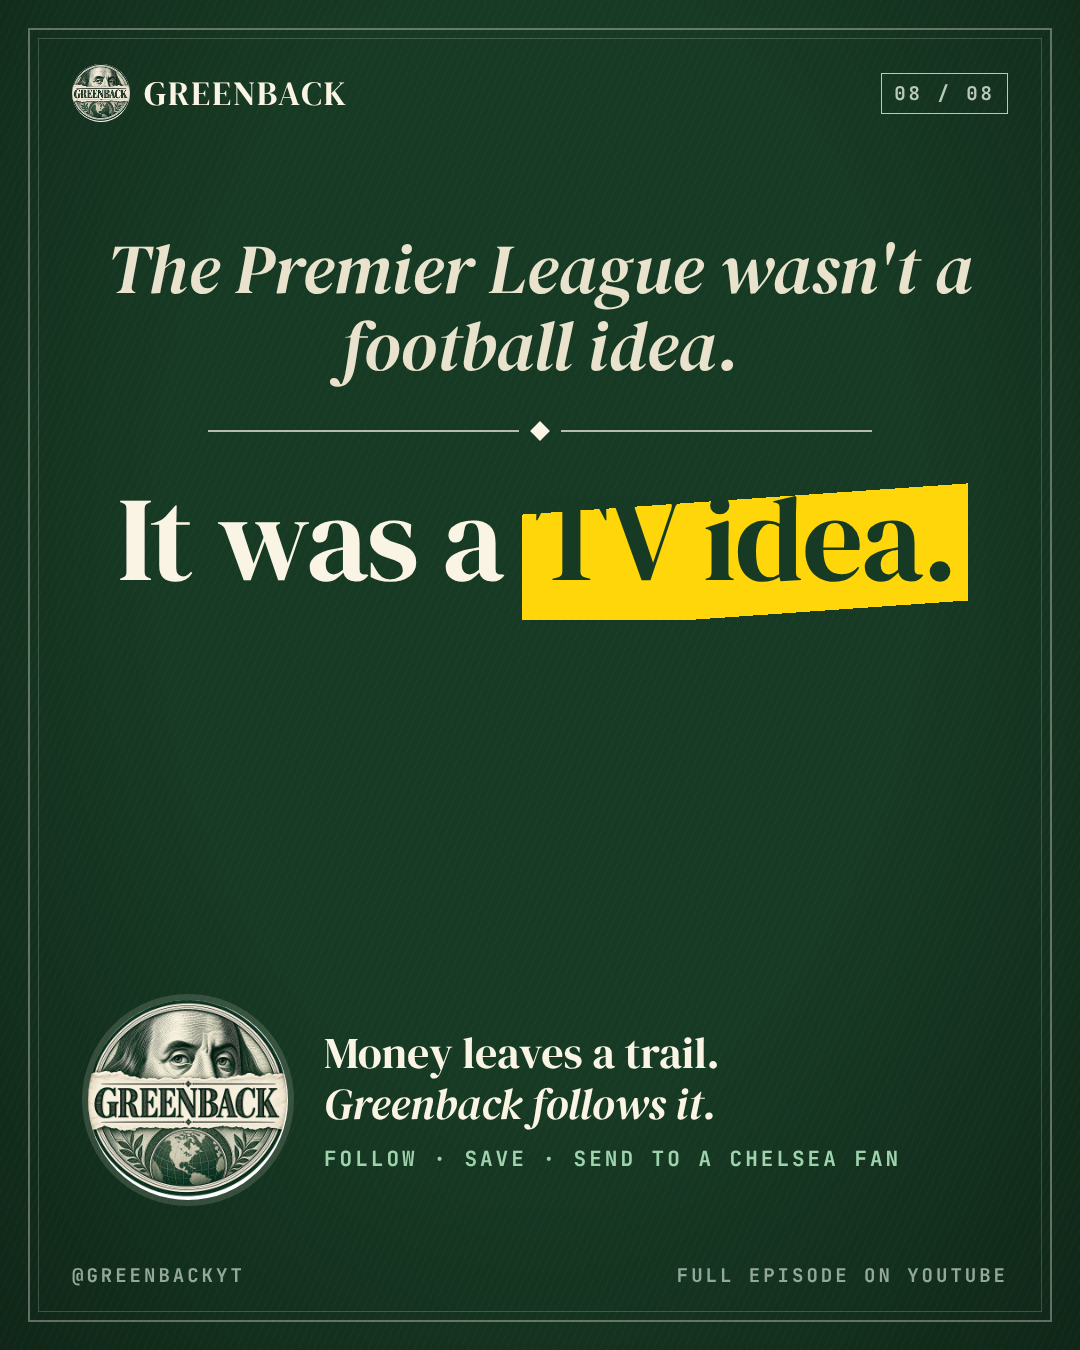
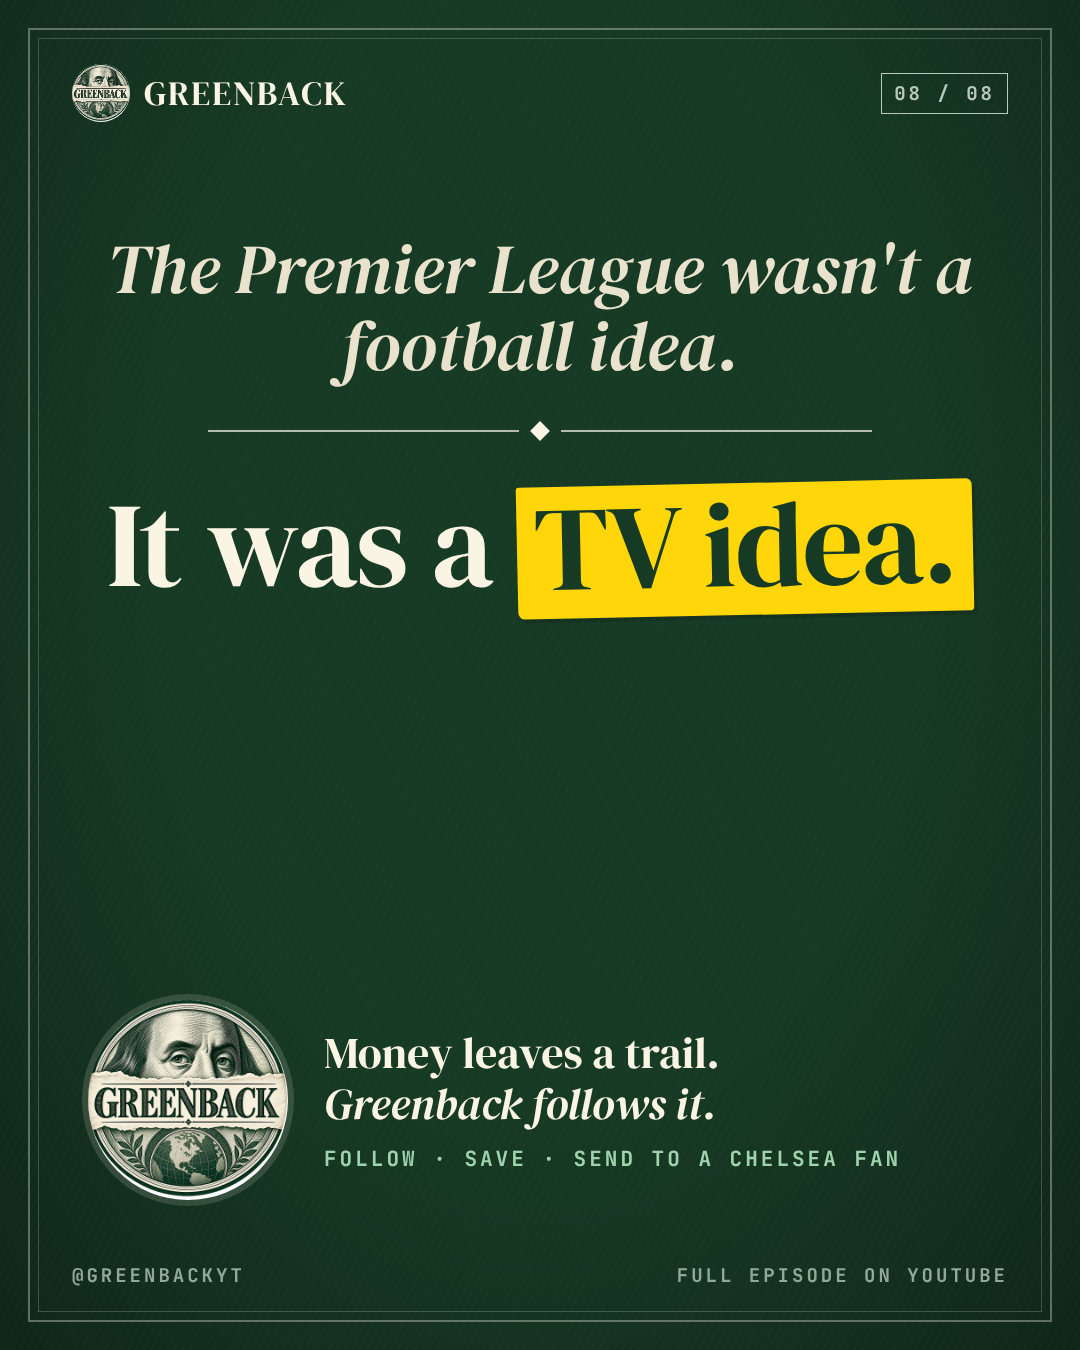
Greenback carousel 01: highlight as marker blocks, darker orange, slide 2 fit
Claude-Session: https://claude.ai/code/session_013DisWTCKT6cGxKX9bxVydS

Changed region(s): [[0.0917, 0.3422, 0.9167, 0.4667]]

diff --git a/premier-league-economics/instagram/carousel_01/carousel.html b/premier-league-economics/instagram/carousel_01/carousel.html
@@ -46,8 +46,8 @@ body{background:#555;color:var(--ink)}
 /* type */
 .kicker{font:700 22px MONO;letter-spacing:4px;color:var(--green);text-transform:uppercase}
 .dark .kicker{color:#9fd3ad}
-h1{font:400 112px/1.0 DS;letter-spacing:-1.5px}
-h2{font:400 84px/1.04 DS;letter-spacing:-1px}
+h1{font:400 112px/1.1 DS;letter-spacing:-1.5px}
+h2{font:400 84px/1.12 DS;letter-spacing:-1px}
 em{font-style:italic}
 p{font:500 34px/1.42 IT;color:var(--ink2)}
 .dark p{color:#cdd9cf}
@@ -55,7 +55,8 @@ p{font:500 34px/1.42 IT;color:var(--ink2)}
 .circ{position:relative;display:inline-block;margin:0 22px}
 .circ::after{content:"";position:absolute;inset:-10px -22px;border:3.5px solid var(--red);border-radius:50%;transform:rotate(-3deg)}
 .under{background:linear-gradient(transparent 78%,rgba(184,50,42,.85) 78%,rgba(184,50,42,.85) 88%,transparent 88%)}
-.hy{background:linear-gradient(176deg,transparent 30%,var(--yellow) 30%,var(--yellow) 90%,transparent 90%);color:var(--ink);padding:0 12px;margin:0 -6px;box-decoration-break:clone;-webkit-box-decoration-break:clone}
+.hy{display:inline-block;background:var(--yellow);color:var(--ink);line-height:1.02;padding:0 .14em .08em;margin:.04em 0;border-radius:3px 6px 4px 7px;transform:rotate(-1.2deg);box-shadow:3px 4px 0 rgba(0,0,0,.12)}
+p .hy,b.hy{line-height:1.25;padding:0 .3em;transform:rotate(-.6deg)}
 .or{color:var(--orange)}
 .cut{position:absolute!important;filter:drop-shadow(10px 14px 0 rgba(15,38,24,.22));z-index:3}
 .cap{position:absolute!important;z-index:4;font:700 36px/1 PEN;color:var(--red);transform:rotate(-5deg)}
@@ -89,7 +90,7 @@ p{font:500 34px/1.42 IT;color:var(--ink2)}
   <div style="padding-top:220px">
     <img class="cut" src="cutouts/abramovich.png" style="right:56px;top:190px;width:320px;transform:rotate(3deg)"><div class="cap" style="right:90px;top:580px">Roman Abramovich</div>
     <div class="kicker">Exhibit A · March 2022</div>
-    <h2 style="margin-top:24px;max-width:560px;font-size:72px">The UK government <span class="hy">froze</span> Chelsea FC.</h2>
+    <h2 style="margin-top:24px;max-width:560px;font-size:64px">The UK government <span class="hy">froze</span> Chelsea FC.</h2>
     <p style="margin-top:24px;max-width:540px;font-size:31px">Its owner was sanctioned after Russia invaded Ukraine. No tickets, no shirts, no transfers. It had to be sold, fast.</p>
   </div>
   <div style="display:flex;align-items:center;gap:30px;margin-top:56px">
